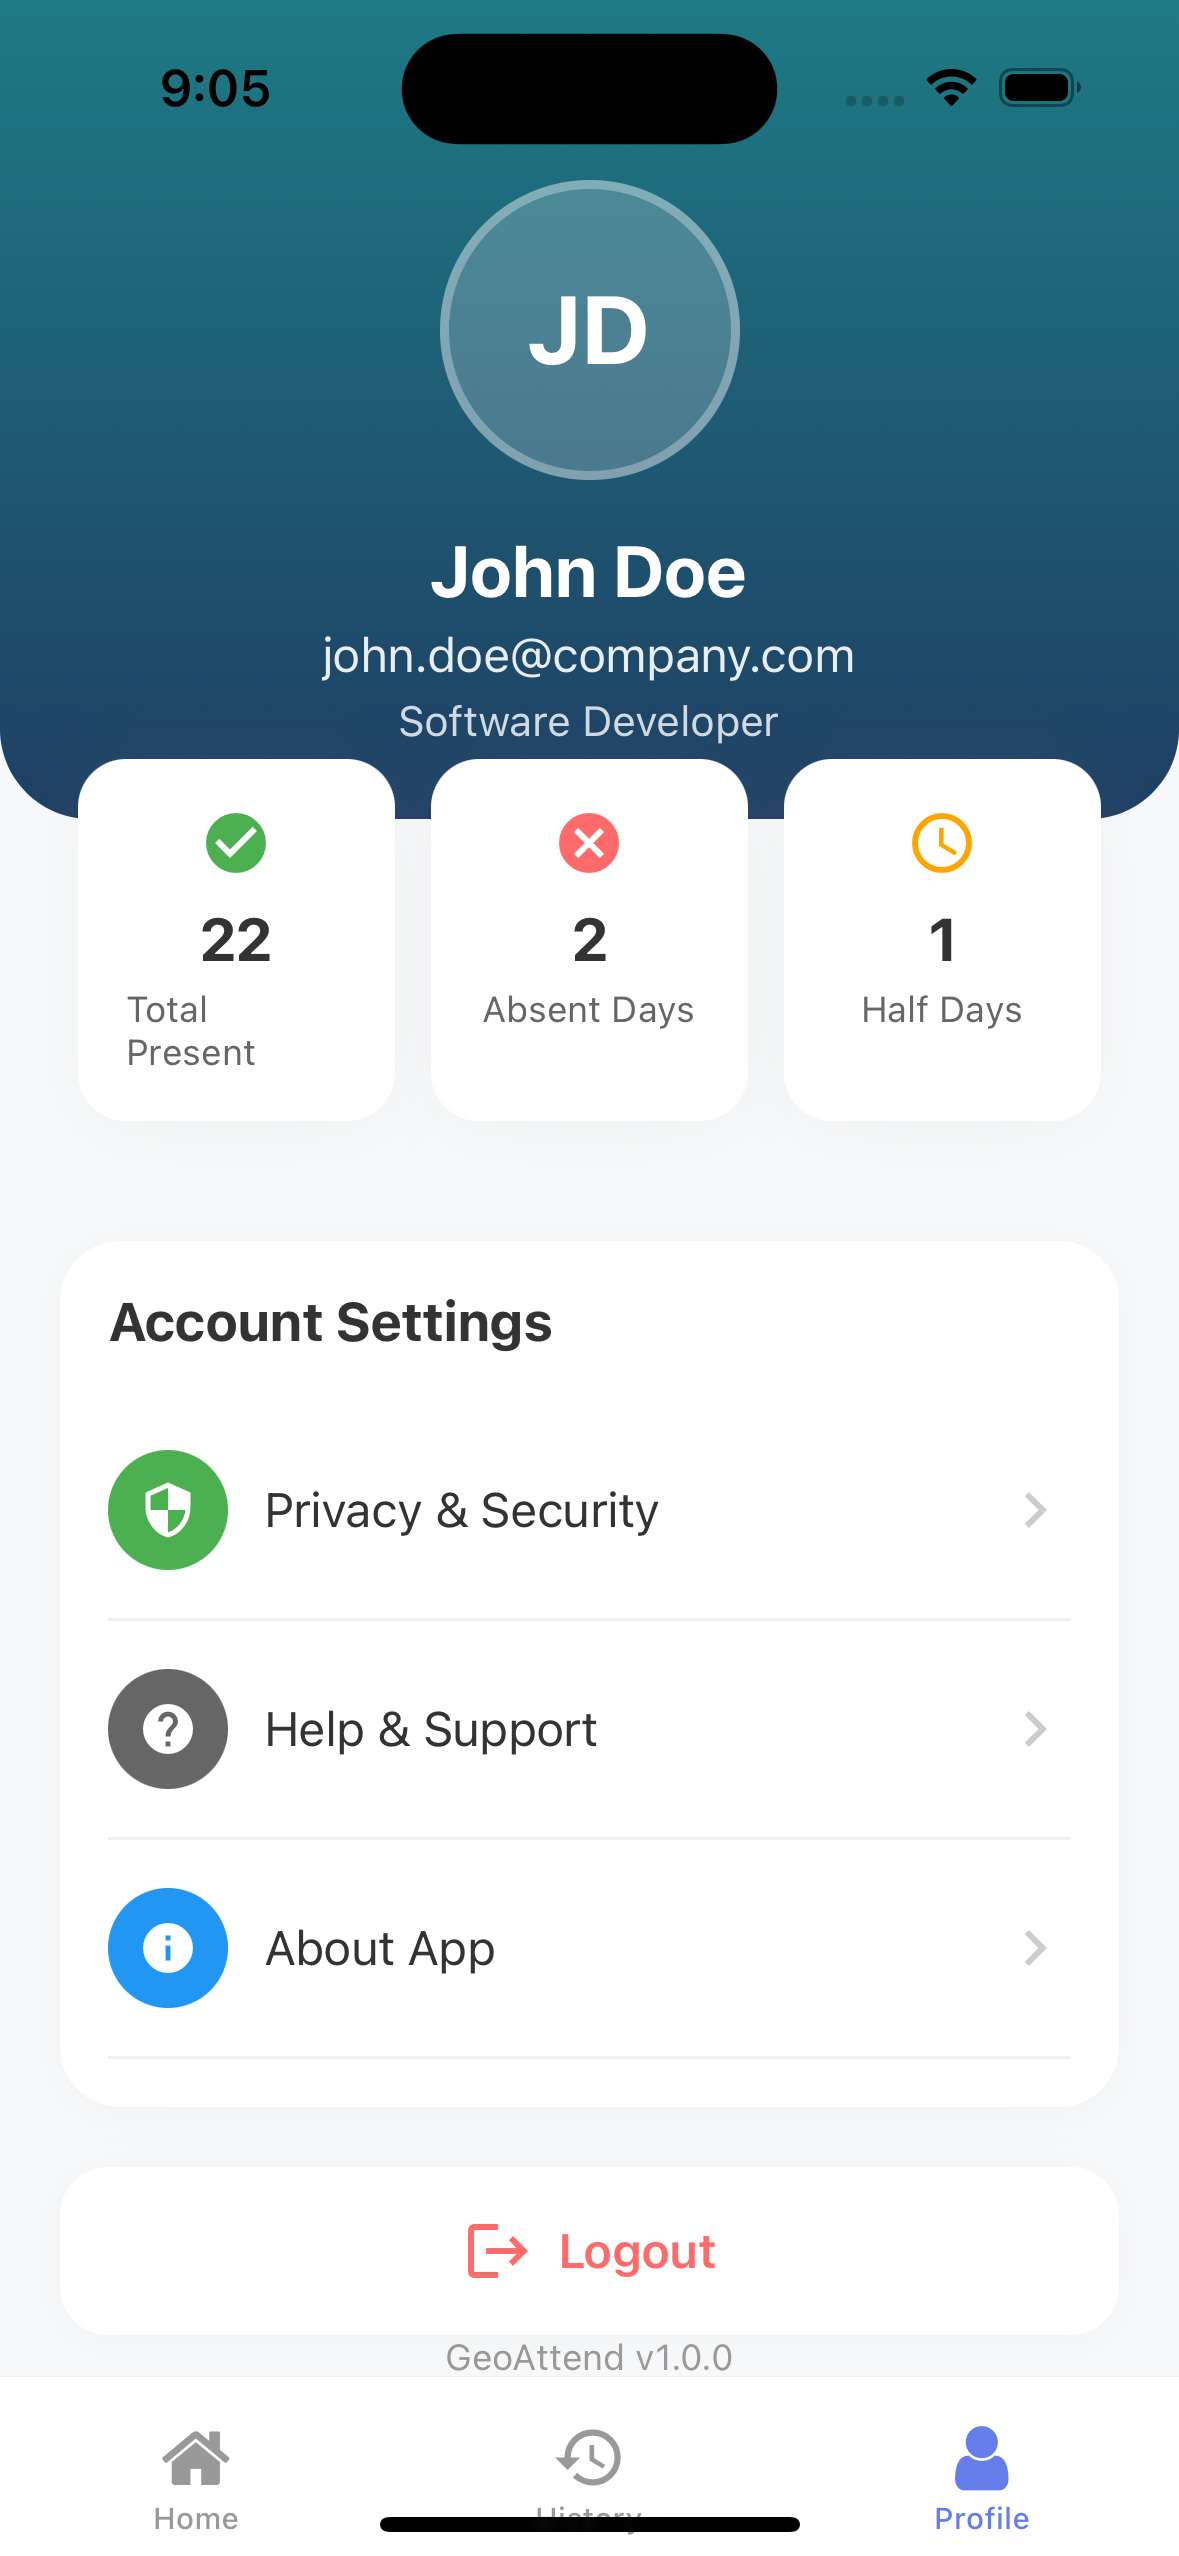
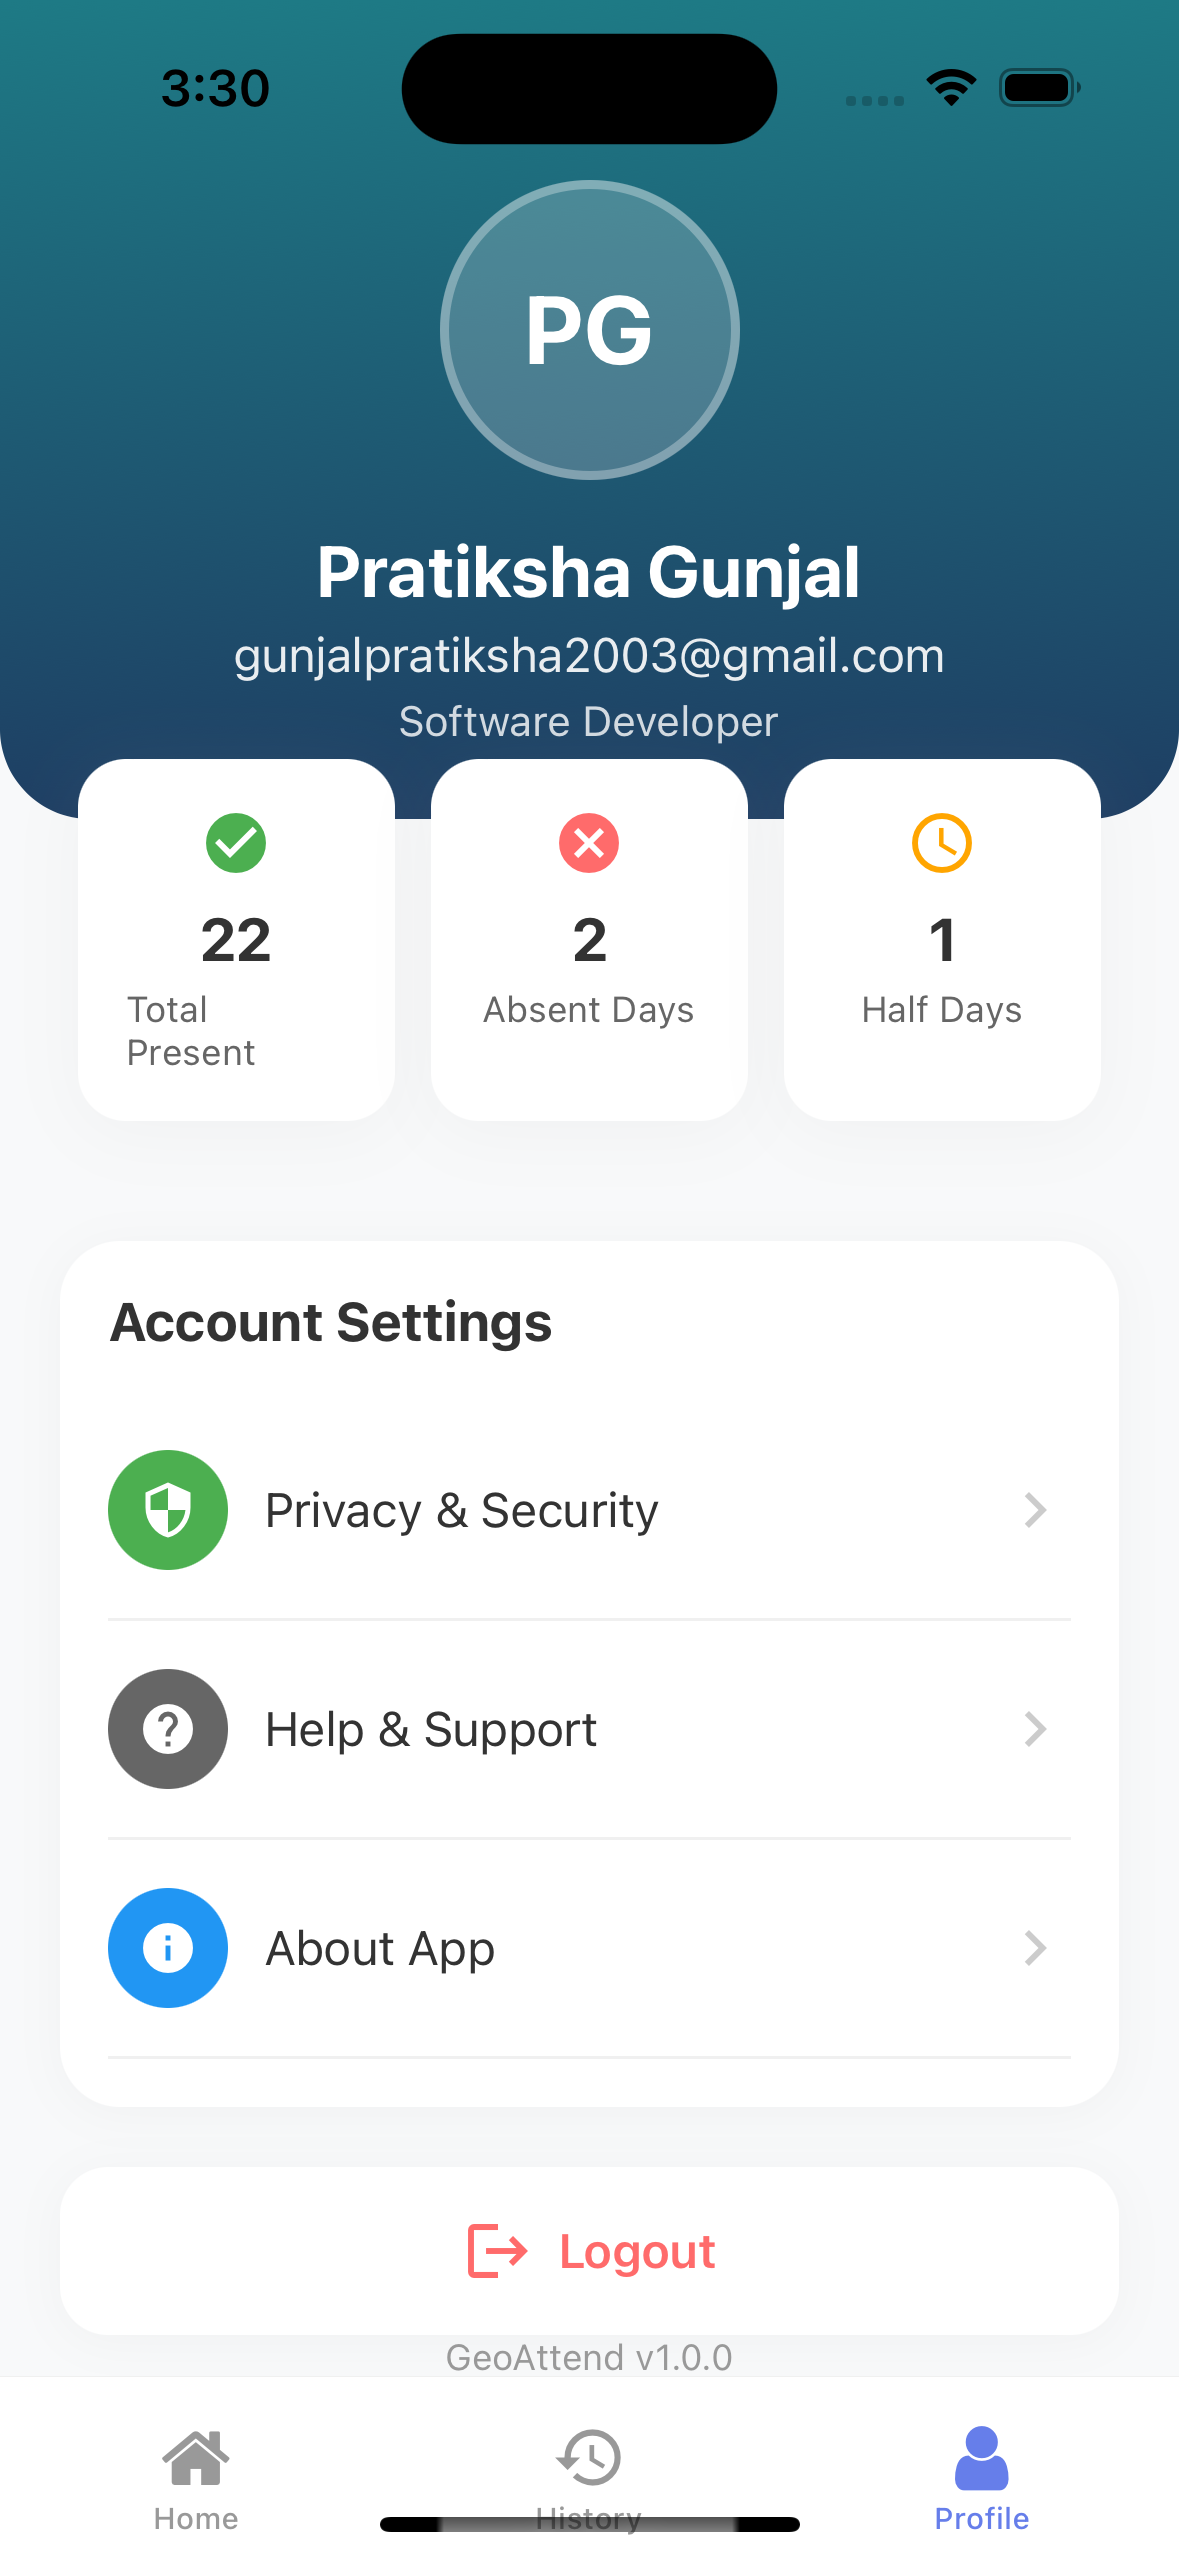
image changed

diff --git a/app/(tabs)/profile.tsx b/app/(tabs)/profile.tsx
@@ -50,7 +50,7 @@ export default function ProfileScreen() {
       >
         <View style={styles.profileSection}>
           <View style={styles.avatar}>
-            <Text style={styles.avatarText}>JD</Text>
+            <Text style={styles.avatarText}>PG</Text>
           </View>
           <Text style={styles.userName}>Pratiksha Gunjal</Text>
           <Text style={styles.userEmail}>gunjalpratiksha2003@gmail.com</Text>
